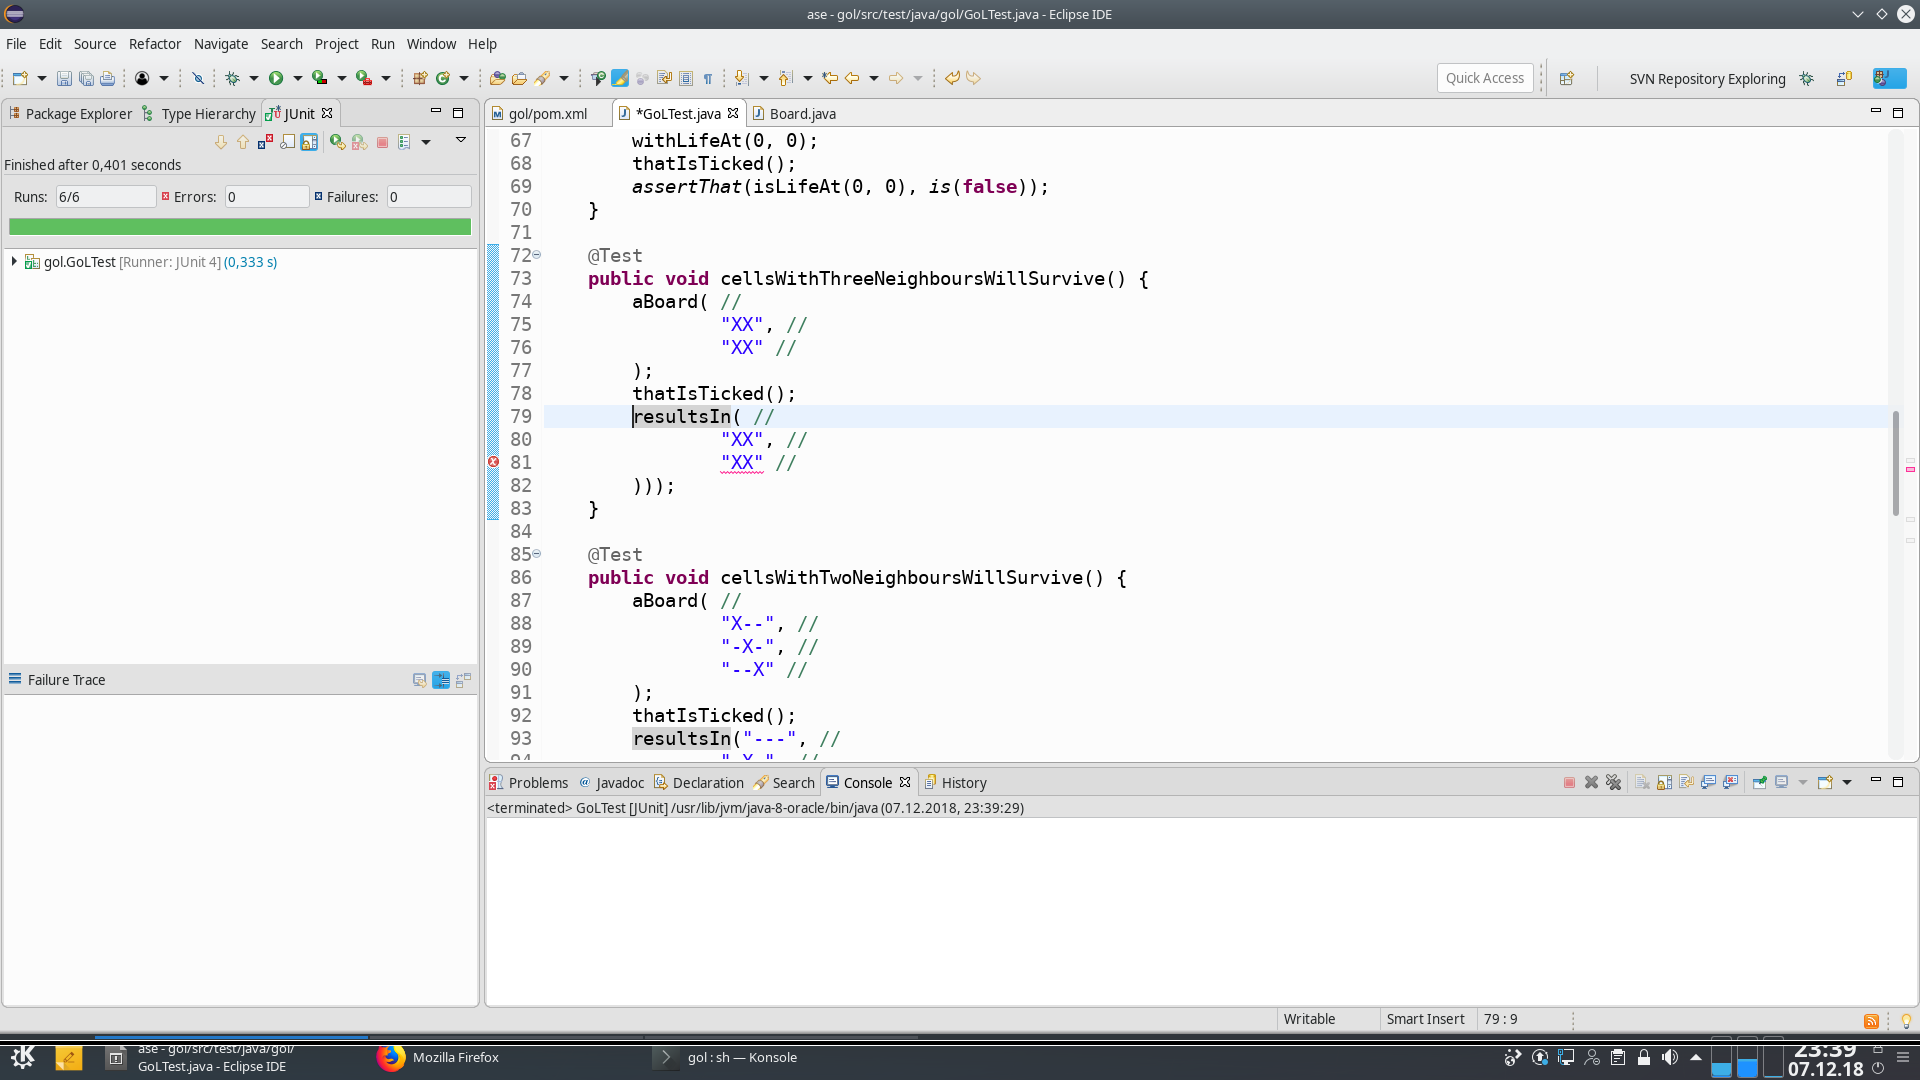
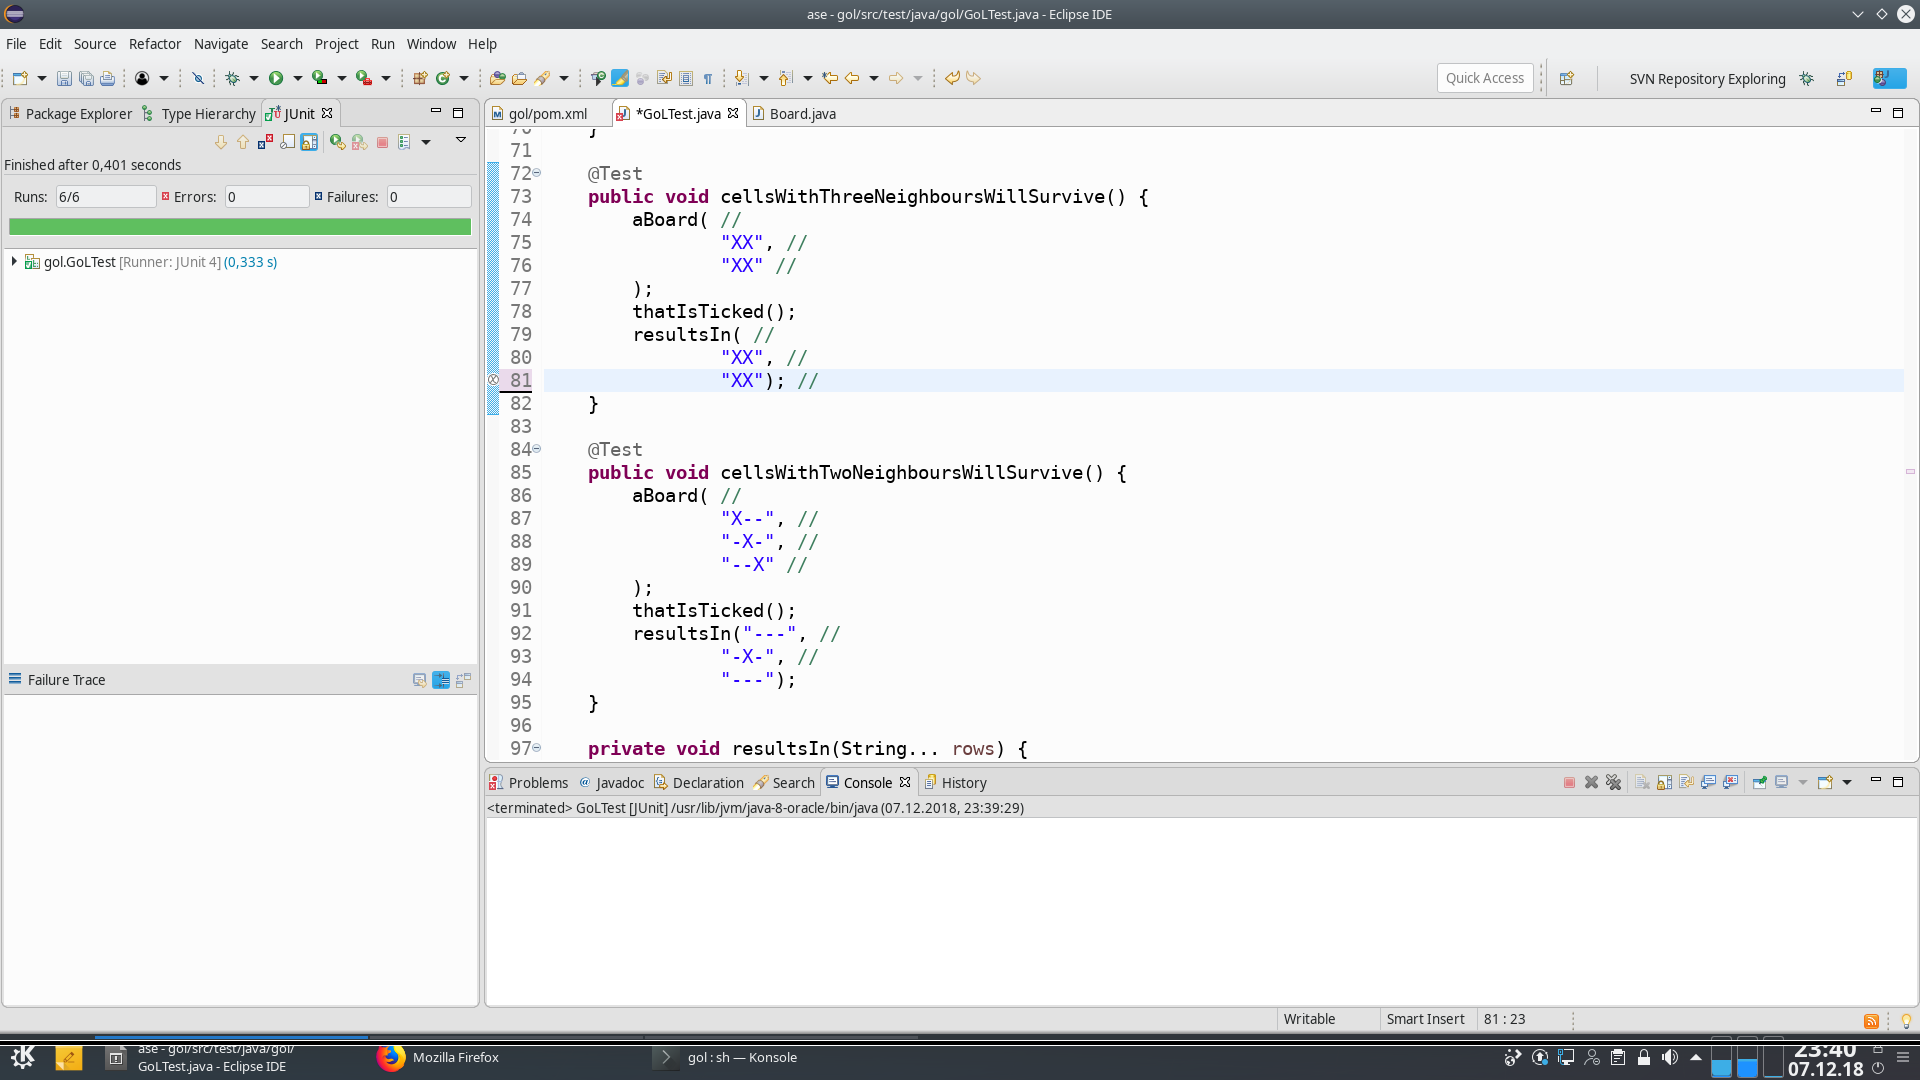
autocommit on change

diff --git a/src/test/java/gol/GoLTest.java b/src/test/java/gol/GoLTest.java
@@ -78,8 +78,7 @@ public class GoLTest {
 		thatIsTicked();
 		resultsIn( //
 				"XX", //
-				"XX" //
-		)));
+				"XX"); //
 	}
 
 	@Test
